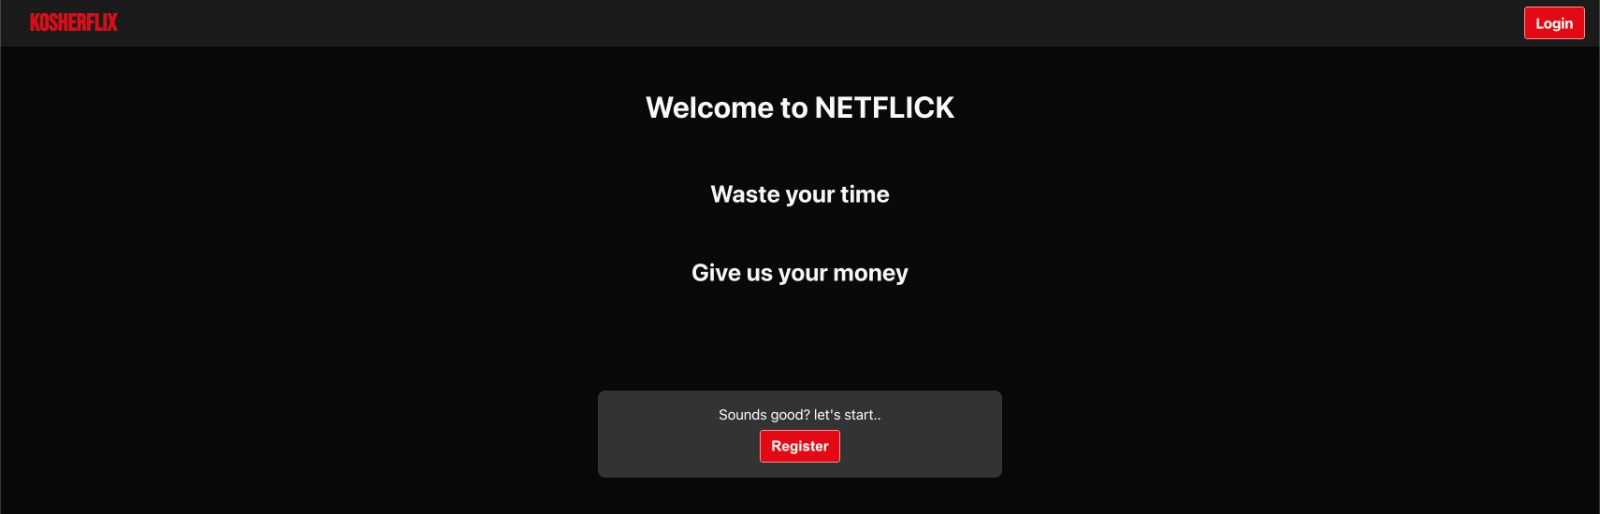
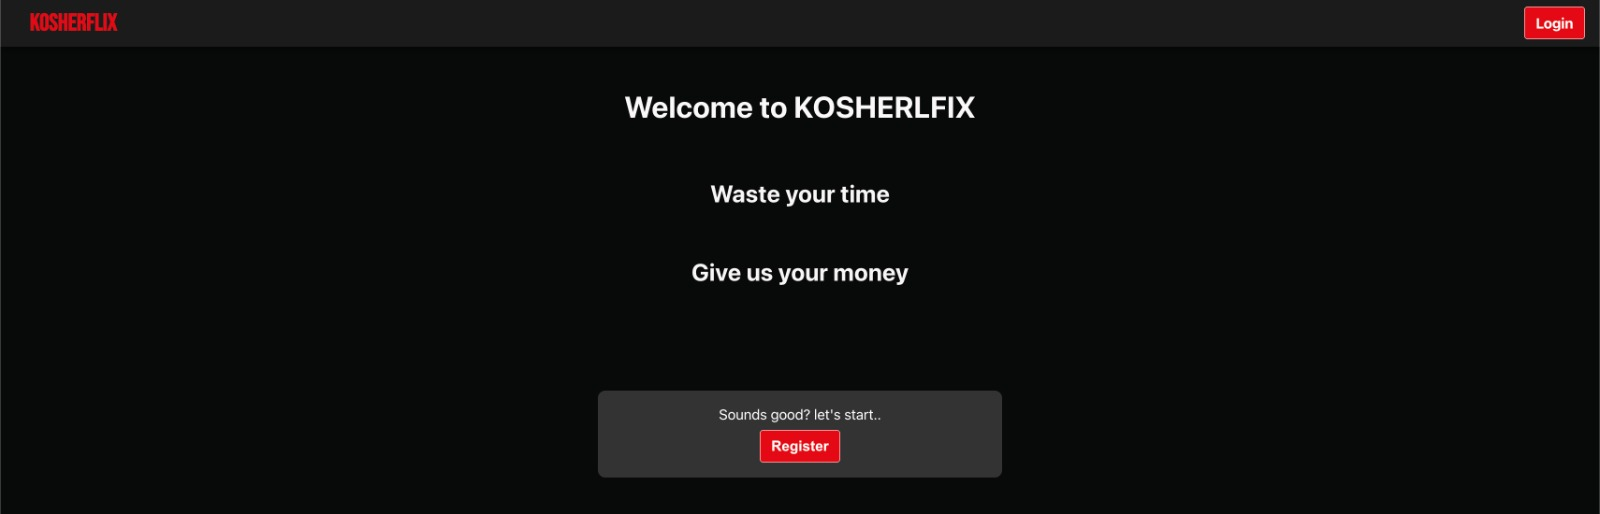
Rename application references from Notflicks to KOSHERFLIX in code and documentation

Changed region(s): [[0.375, 0.1868, 0.625, 0.249]]

diff --git a/React/src/pages/Welcome.js b/React/src/pages/Welcome.js
@@ -23,7 +23,7 @@ const Welcome = () => {
             <WelcomeBar />
             
             <div className="welcome-content">
-                <h1>Welcome to NETFLICK</h1>
+                <h1>Welcome to KOSHERFLIX</h1>
                 <h2>Waste your time</h2>
                 <h2>Give us your money</h2>
                 <div className="register">

diff --git a/wiki/Web_Application/Admin_Homepage/Admin_Homepage.md b/wiki/Web_Application/Admin_Homepage/Admin_Homepage.md
@@ -95,7 +95,7 @@ Admins can create and organize movie categories.
 - **Navbar**: The Admin Homepage retains the same **navbar** as the regular homepage.
 - **Return to Main Homepage**: Click the **Notflicks logo** in the navbar to return to the homepage.
 
-![Notflicks Logo](./Screenshots/web_notflicks_logo.png)
+![Notflicks Logo](./Screenshots/web_kosherflix_logo.png)
 
 ### 4. **Whats's stopping me from just going straight to the admin page?**
 
